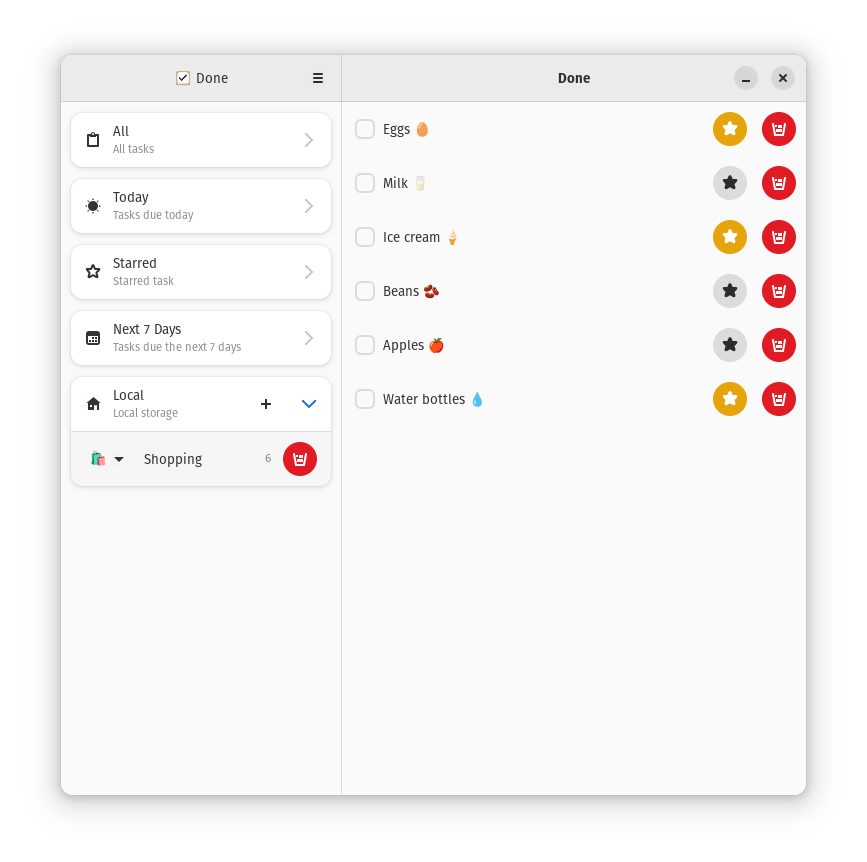
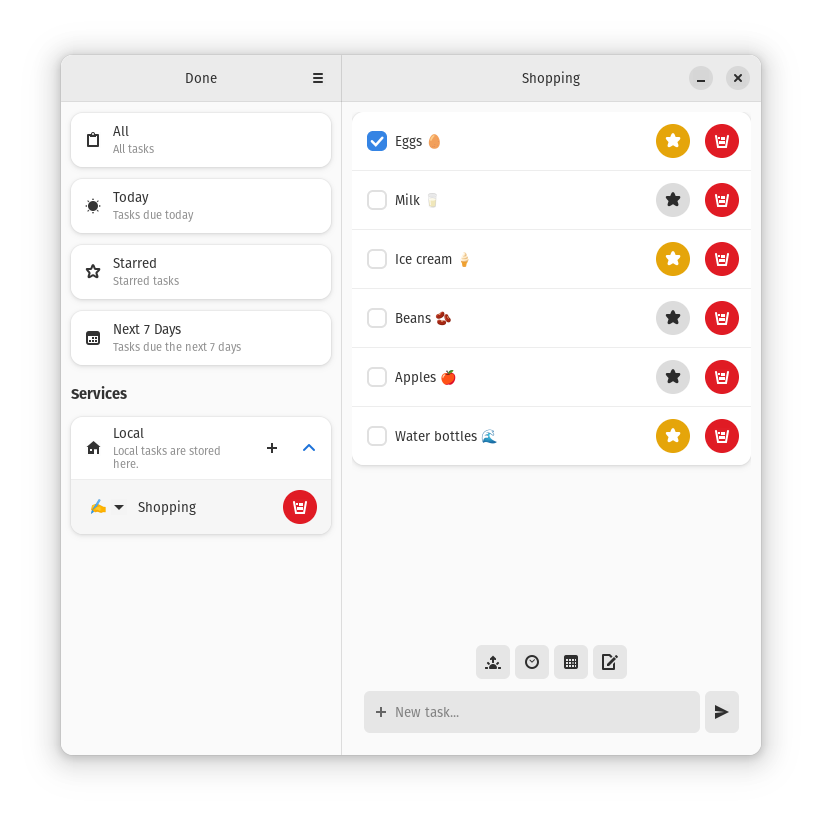
Updated screenshots
- Updated window size
- Replaced expander row with action row for smart lists

diff --git a/src/widgets/factory/smart_list.rs b/src/widgets/factory/smart_list.rs
@@ -1,5 +1,5 @@
 use crate::widgets::components::smart_lists::{SmartList, SmartListInput};
-use adw::prelude::{ExpanderRowExt, PreferencesGroupExt, PreferencesRowExt};
+use adw::prelude::{ActionRowExt, PreferencesGroupExt, PreferencesRowExt};
 use relm4::adw;
 use relm4::factory::AsyncFactoryComponent;
 use relm4::factory::{AsyncFactorySender, DynamicIndex, FactoryView};
@@ -41,16 +41,13 @@ impl AsyncFactoryComponent for SmartListFactory {
 		#[name(list_box)]
 		adw::PreferencesGroup {
 			#[name(expander)]
-			add = &adw::ExpanderRow {
+			add = &adw::ActionRow {
 				#[watch]
 				set_title: self.name.as_str(),
 				#[watch]
 				set_subtitle: self.description.as_str(),
 				#[watch]
 				set_icon_name: Some(self.icon.as_str()),
-				#[watch]
-				set_enable_expansion: false,
-				set_expanded: false,
 			},
 			add_controller = &gtk::GestureClick {
 				connect_pressed[sender] => move |_, _, _, _| {

diff --git a/src/widgets/modals/about.rs b/src/widgets/modals/about.rs
@@ -1,4 +1,3 @@
-use gettextrs::gettext;
 use gtk::prelude::GtkWindowExt;
 use relm4::{gtk, ComponentParts, ComponentSender, SimpleComponent};
 use libadwaita as adw;
@@ -38,6 +37,7 @@ impl SimpleComponent for AboutDialog {
 		_sender: ComponentSender<Self>,
 	) {
 		let dialog = adw::AboutWindow::builder()
+			.icon_name(APP_ID)
 			.application_icon(APP_ID)
 			.application_name("Done")
 			.developer_name("Eduardo Flores")

diff --git a/src/app.rs b/src/app.rs
@@ -102,7 +102,7 @@ impl Component for App {
 	view! {
 		#[root]
 		main_window = adw::ApplicationWindow::new(&main_app()) {
-			set_default_width: 800,
+			set_default_width: 700,
 			set_default_height: 700,
 			connect_close_request[sender] => move |_| {
 				sender.input(AppMsg::Quit);
